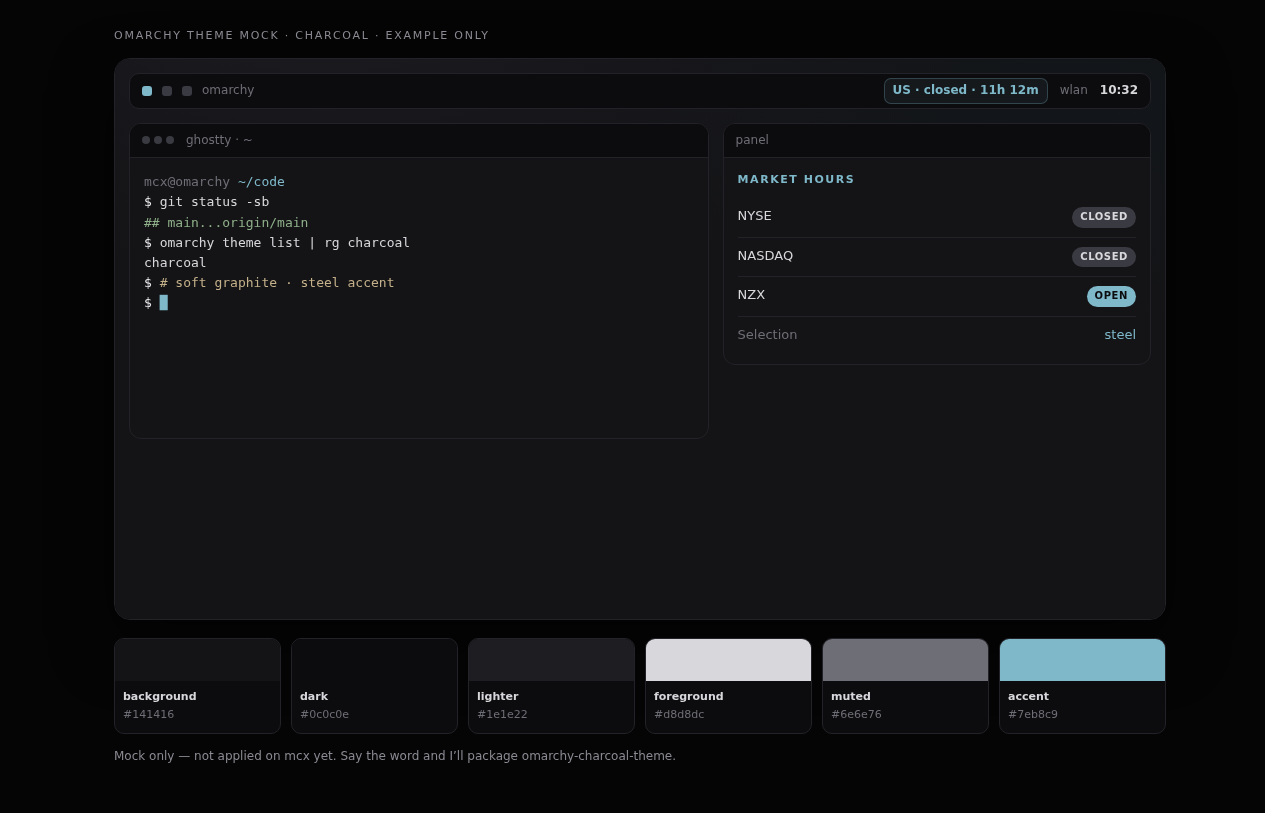
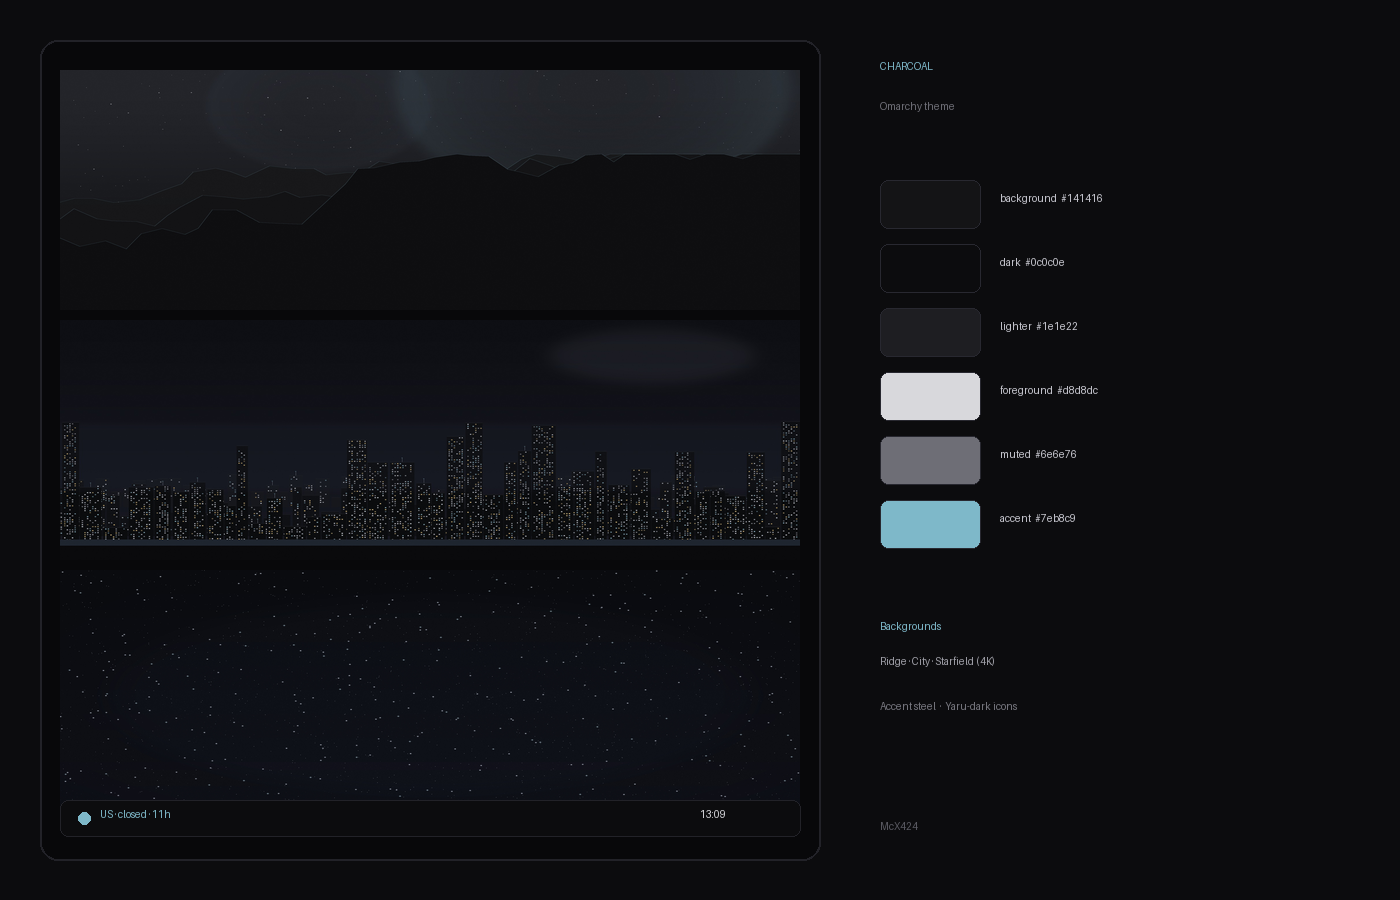
Polish Charcoal for public distribution
4K wallpapers with clean names, lock/unlock assets, shell.lock and
keyboard RGB, stronger preview card, and a marketplace-ready README.

diff --git a/README.md b/README.md
@@ -1,6 +1,8 @@
 # Charcoal
 
-A clean charcoal Omarchy theme — soft graphite surfaces with a cool steel accent.
+A clean charcoal [Omarchy](https://omarchy.org) theme — soft graphite surfaces, cool steel accent, and three 4K wallpapers.
+
+![Charcoal preview](preview.png)
 
 ## Install
 
@@ -8,7 +10,29 @@ A clean charcoal Omarchy theme — soft graphite surfaces with a cool steel acce
 omarchy theme install https://github.com/McX424/omarchy-charcoal-theme.git
 ```
 
-Or via Omarchy menu: **Install → Style → Theme** and paste the repo URL.
+Or: **Omarchy menu → Install → Style → Theme** and paste that URL.
+
+The theme appears as **Charcoal** in the selector.
+
+## What’s included
+
+| Piece | Detail |
+|-------|--------|
+| Palette | Graphite greys + steel accent `#7eb8c9` |
+| Icons | `Yaru-dark` |
+| Lock screen | `shell.lock.toml` + unlock art |
+| Keyboard RGB | Steel accent |
+| Wallpapers (4K) | Ridge · City · Starfield |
+
+## Wallpapers
+
+Cycle with Style wallpaper next / `omarchy-theme-bg-next`.
+
+| File | Mood |
+|------|------|
+| `01-ridge.jpg` | Layered ridgeline under a steel sky |
+| `02-city-haze.jpg` | Dark city skyline with lit windows |
+| `03-starfield.jpg` | Dense charcoal night sky |
 
 ## Palette
 
@@ -18,19 +42,25 @@ Or via Omarchy menu: **Install → Style → Theme** and paste the repo URL.
 | dark_background | `#0c0c0e` |
 | lighter_background | `#1e1e22` |
 | foreground | `#d8d8dc` |
-| muted / dark_foreground | `#6e6e76` |
+| dark_foreground / muted text | `#6e6e76` |
 | accent | `#7eb8c9` |
+| selection | `#2a2a32` |
 
-## Backgrounds
+Terminal ANSI colours stay desaturated so code stays readable without neon noise.
 
-Cycle with Omarchy’s wallpaper next control (`omarchy-theme-bg-next` / Style wallpaper cycle). Included:
+## Remove
 
-| File | Mood |
-|------|------|
-| `6-ridge.jpg` | Layered mountain ridge under steel sky |
-| `7-city-haze.jpg` | Dark city skyline with lit windows |
-| `8-starfield.jpg` | 4K charcoal night sky, dense stars |
+```bash
+omarchy theme remove charcoal
+```
 
+(Or **Remove → Style → Theme** in the Omarchy menu.)
+
+## Notes for distributors
+
+- Repo naming follows `omarchy-[name]-theme` so install shows as **Charcoal**.
+- No `neovim.lua` / `vscode.json` / terminal configs — Omarchy regenerates those from `colors.toml` for installed themes.
+- Optional: list on the [extra themes](https://omarchy.org) page via a PR to the omarchy-site repo.
 
 ## License
 
